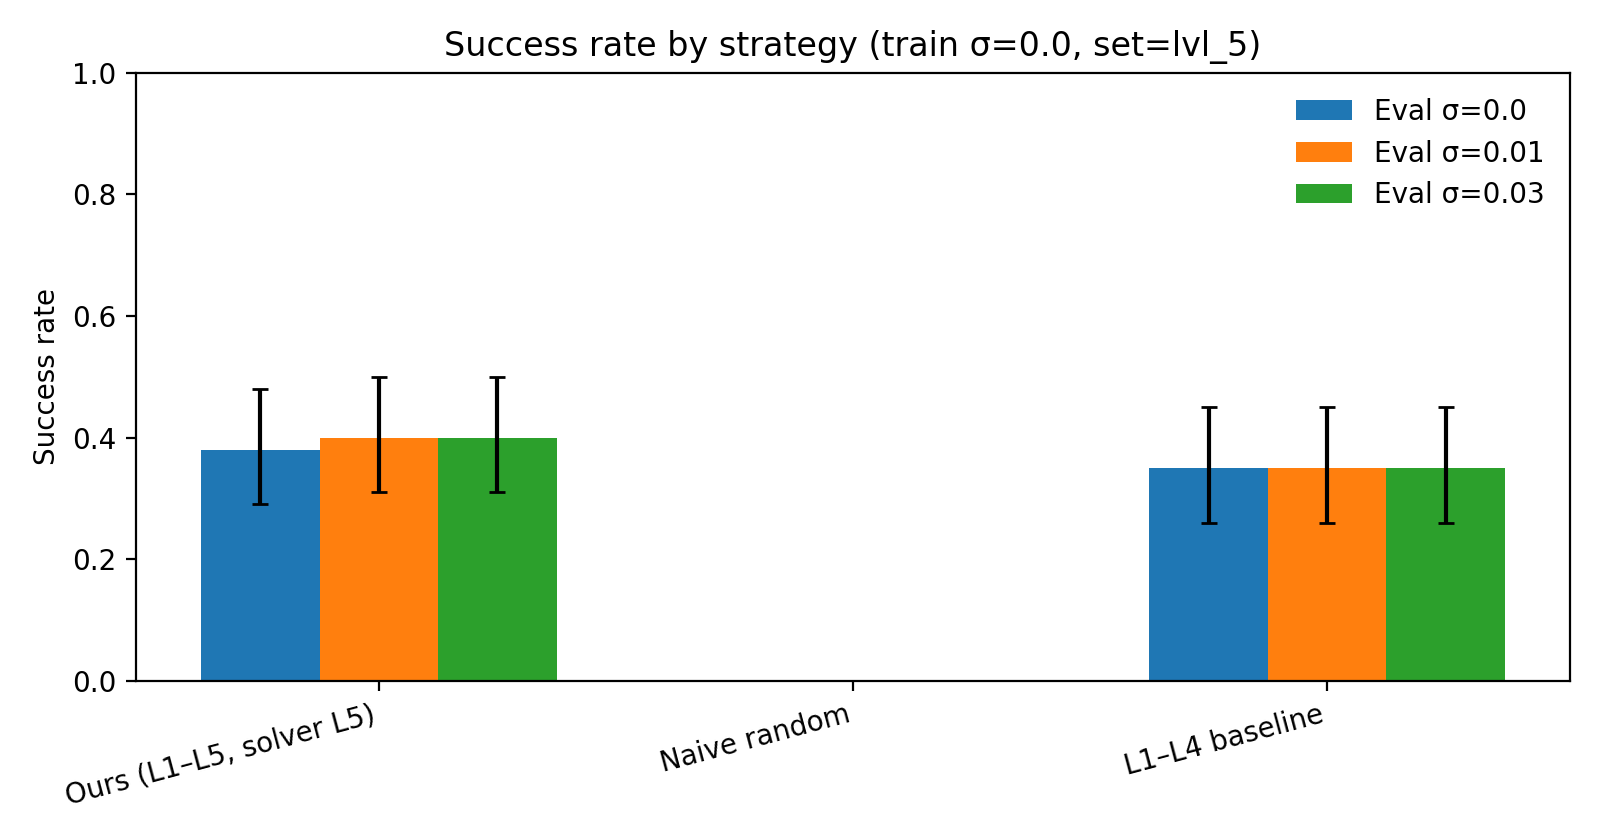
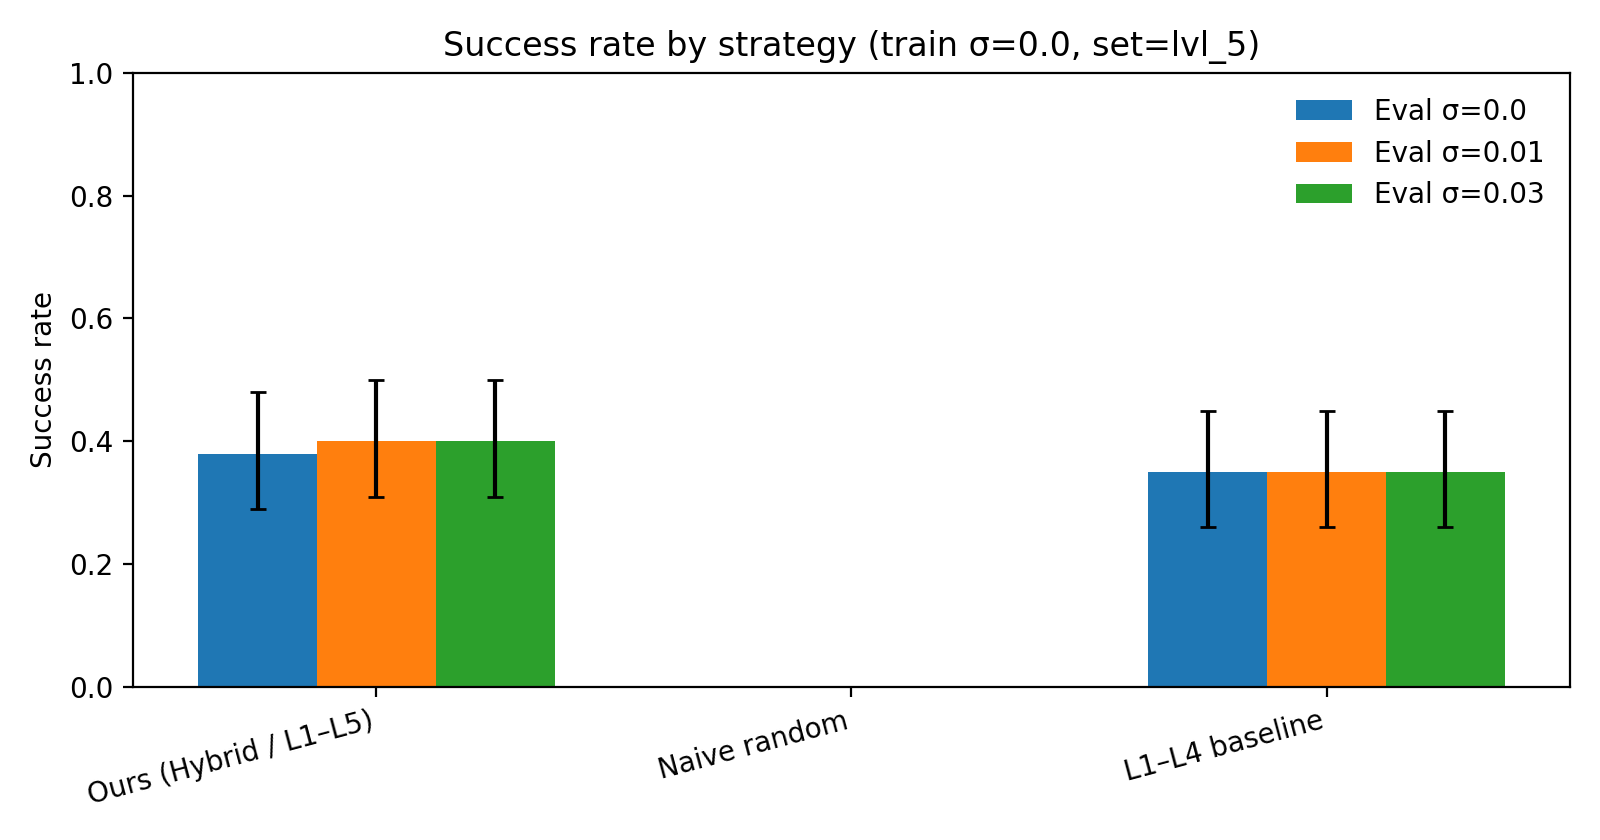
Add

diff --git a/navppo/eval_pipeline.py b/navppo/eval_pipeline.py
@@ -24,10 +24,11 @@ STRATEGY_ORDER = [
 ]
 
 STRATEGY_LABEL = {
-    "ours_l1l5_solverl5": "Ours (L1–L5, solver L5)",
+    "ours_l1l5_solverl5": "Ours (Hybrid / L1–L5)",
     "naive_random": "Naive random",
     "l1l4_baseline": "L1–L4 baseline",
 }
+
 
 
 def normalize_status(s: str) -> str:
@@ -363,7 +364,7 @@ def main():
     print(df[["model_id", "strategy", "train_noise"]].drop_duplicates().sort_values(["strategy", "train_noise"]))
 
     # Make plots (recommend: start with lvl_5 as main novelty)
-    main_eval_set = "lvl_5"  # change if your folder name is different
+    main_eval_set = "lvl_1_4"  # change if your folder name is different
 
     for tn in TRAIN_NOISE_LEVELS:
         plot_success_vs_eval_noise(df, train_noise=tn, eval_set=main_eval_set,
